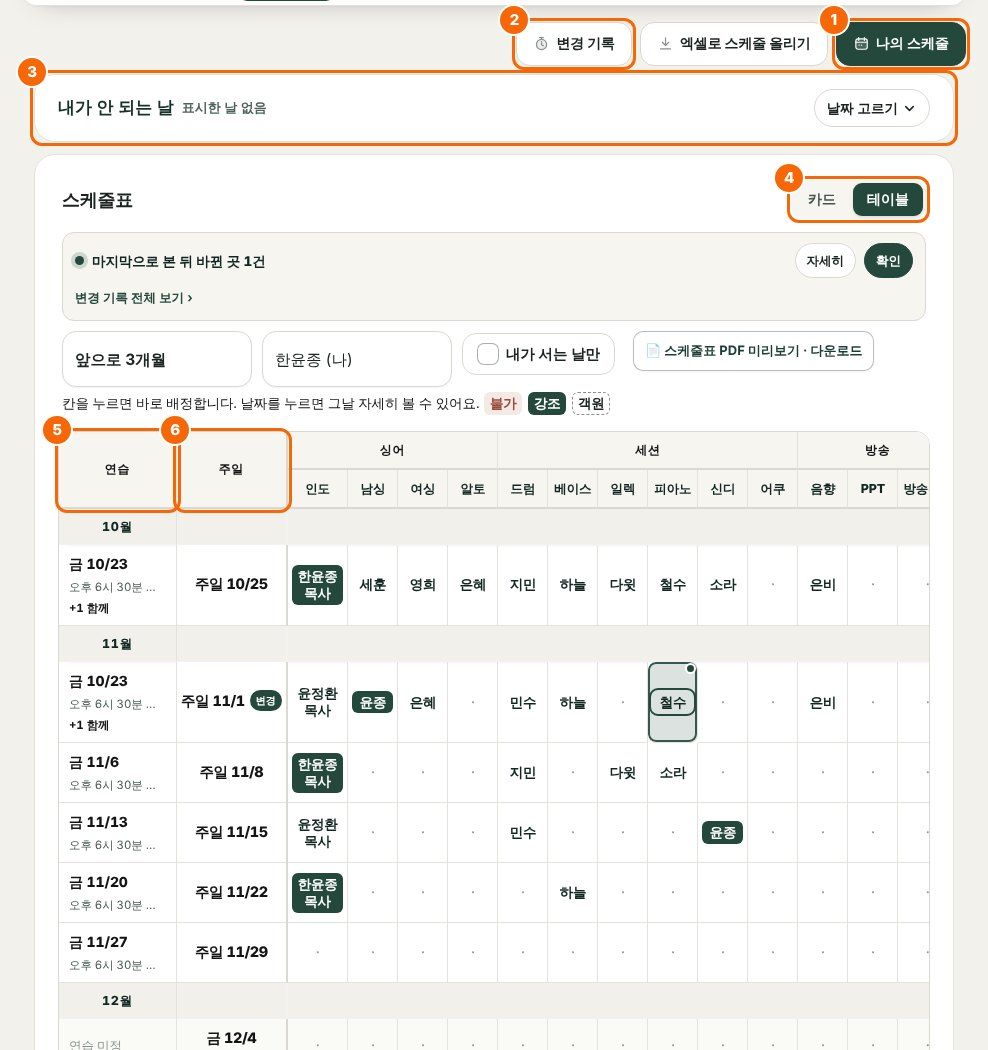
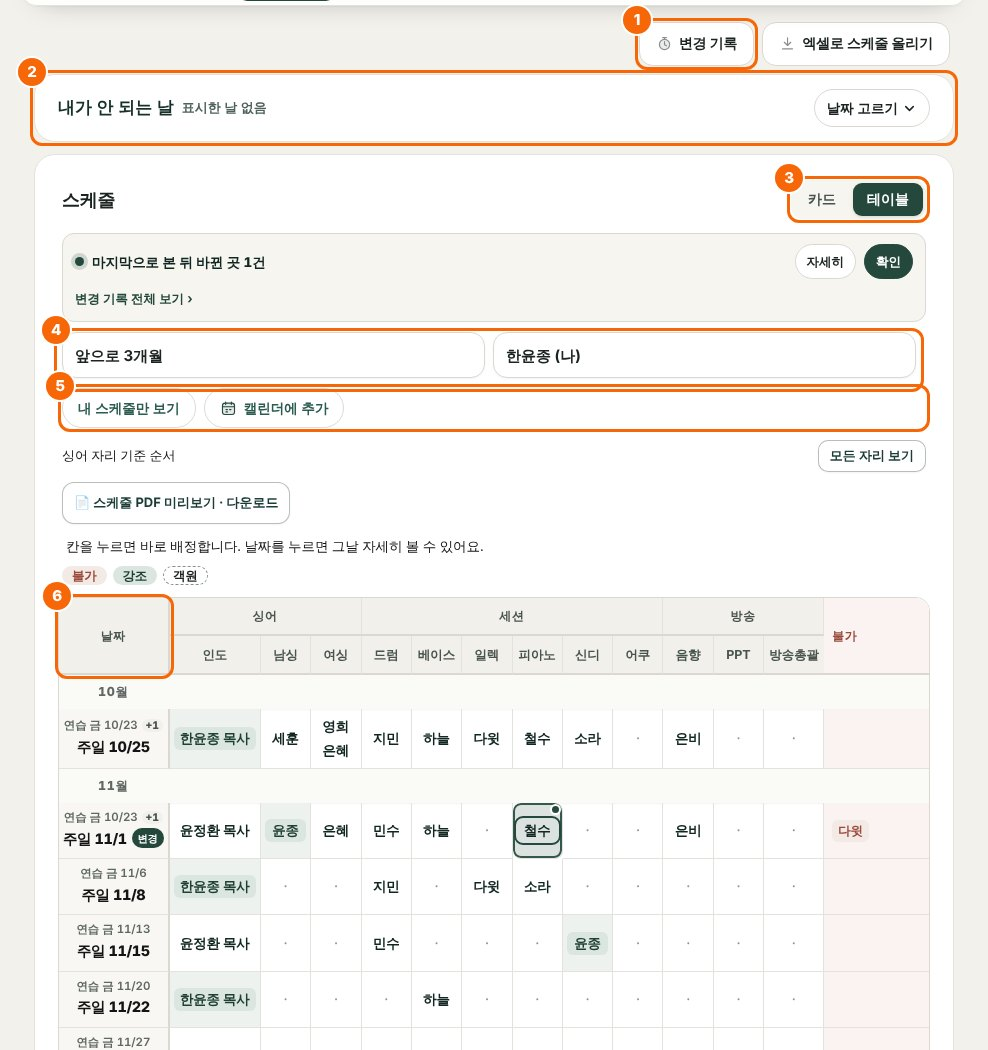
Schedule: match the church-app schedule layout
- Panel header "스케줄" with card/table toggle; range and highlight selects side by side
- "내 스케줄만 보기" / "캘린더에 추가" pill buttons; calendar opens inline with
  Apple / Google / .ics cards plus copy, Outlook and pick-dates (replaces the top
  "나의 스케줄" button)
- Role-order note with "모든 자리 보기" toggle, PDF button, legend chips
- Table: one date cell (practice small above Sunday), grey header, soft highlight
  for the chosen person, tinted 불가 column; separate practice and song columns removed
- Guide text and screenshots updated

Claude-Session: https://claude.ai/code/session_014VDXCwRXQi55bbQHujsnNa

diff --git a/public/hub/hubshim.js b/public/hub/hubshim.js
@@ -538,6 +538,163 @@ function offOne(key) {
   markOff([key], r, part);
 }
 
+/* ---------------------------------------------------------------- V14 스케줄 화면 — 청년부 앱(church-app v11) 스케줄과 같은 차림
+ * 머리(제목 · 카드/테이블) → 기간 · 사람 강조 (반반) → [내 스케줄만 보기] [캘린더에 추가] (누르면 아래로 펼침)
+ * → "○○ 자리 기준 순서 · 방송 칸은 숨김 [모든 자리 보기]" → PDF → 안내 · 범례 → 표/카드.
+ * 테이블 날짜 칸은 한 칸에 "연습일(작게) / 주일(굵게)" — 따로 있던 연습 칸 · 곡 칸은 뺌 (연습 시간 · 곡은 날짜를 누르면 나옴) */
+var ST_KIND_NAME = { sing: '싱어', keys: '건반', drum: '드럼', bass: '베이스', egt: '일렉', agt: '어쿠기타' };
+var stViewGroupsBase = stViewGroups;
+stViewGroups = function () { return ST.allCols ? stGroups() : stViewGroupsBase(); };
+function stPracMini(r) {
+  var p = r.practice || null, none = !p || p.none || p.unset || !p.date, w = stPracWith(r);
+  return '<span class="sd stpr' + (none ? ' none' : '') + '"' + (D.canEdit ? ' onclick="event.stopPropagation();stPractice(\'' + esc(jsq(r.key)) + '\')"' : '') +
+    ' title="' + esc((D.canEdit ? '연습일 바꾸기' : '연습일') + (w ? ' — 같은 날 연습: ' + w : '')) + '">' +
+    (none ? esc(stPracLabel(p)) : '연습 ' + WD[dt(p.date).getDay()] + ' ' + md(p.date)) + (w ? ' <i class="prw">+' + r.practiceWith.length + '</i>' : '') + '</span>';
+}
+var CAL = { open: false, data: null, err: '', busy: false };
+function calToggle() {
+  CAL.open = !CAL.open; render();
+  if (CAL.open && !CAL.data && !CAL.busy) calLoad();
+}
+function calLoad() {
+  CAL.busy = true; CAL.err = ''; render();
+  fetch((window.PH_BASE || '') + '/cal/mine?team=' + encodeURIComponent(HUB.team || ''), { credentials: 'same-origin' })
+    .then(function (r) { return r.json(); })
+    .then(function (j) { if (!j || !j.ok) throw new Error((j && j.error) || '캘린더 주소를 만들지 못했습니다.'); CAL.busy = false; CAL.data = j.result; render(); })
+    .catch(function (e) { CAL.busy = false; CAL.err = (e && e.message) || '캘린더 주소를 만들지 못했습니다.'; render(); });
+}
+function calCopy(btn) {
+  var u = CAL.data && CAL.data.feed && CAL.data.feed.https; if (!u) return;
+  var ok = function () { btn.textContent = '복사했습니다'; setTimeout(function () { btn.textContent = '주소 복사'; }, 1800); };
+  try { navigator.clipboard.writeText(u).then(ok, function () { prompt('주소를 복사하세요', u); }); } catch (e) { prompt('주소를 복사하세요', u); }
+}
+function calIco(k) {
+  var p = {
+    apple: '<rect x="3.5" y="4.5" width="17" height="16" rx="3.5" class="f"/><path d="M3.5 9.5h17M8 2.8v3.4M16 2.8v3.4"/><path d="M8.5 13.5h2M13.5 13.5h2M8.5 16.8h2"/>',
+    google: '<rect x="3.5" y="4.5" width="17" height="16" rx="3.5" class="f"/><path d="M3.5 9.5h17M8 2.8v3.4M16 2.8v3.4"/><path d="M15.2 15.1a3.3 3.3 0 1 1-1-2.4M15.2 13.4h-2.6"/>',
+    file: '<path class="f" d="M7 3.8h6.6L18 8.2v10a2 2 0 0 1-2 2H7a2 2 0 0 1-2-2V5.8a2 2 0 0 1 2-2z"/><path d="M13.4 3.8v4.6H18M12 11.5v5M9.6 14.4l2.4 2.4 2.4-2.4"/>'
+  }[k];
+  return '<svg class="calic" viewBox="0 0 24 24" fill="none" stroke="currentColor" stroke-width="1.6" stroke-linecap="round" stroke-linejoin="round" aria-hidden="true">' + p + '</svg>';
+}
+function calBox() {
+  if (!CAL.open) return '';
+  var L = CAL.data, h = '<div class="calbox">';
+  if (CAL.busy) h += '<p class="hint" style="margin:0;">주소를 만드는 중…</p>';
+  else if (CAL.err) h += '<p class="msg err" style="margin:0;">' + esc(CAL.err) + '</p>';
+  else if (L && L.feed) {
+    var items = (L.items || []).filter(function (it) { return !it.off; });
+    var ics = (window.PH_BASE || '') + '/cal/mine.ics?team=' + encodeURIComponent(HUB.team || '') + '&ids=' + encodeURIComponent(items.map(function (it) { return it.id; }).join(','));
+    h += '<p class="calh">' + esc(dispName(D.who)) + ' 님이 서는 연습 · 주일 예배 · 행사' + (items.length ? ' ' + items.length + '개' : '') + '가 들어갑니다. 한 번 추가해 두면 편성이 바뀔 때 캘린더도 저절로 바뀝니다.</p>' +
+      '<div class="calbtns">' +
+        '<a class="calb" href="' + esc(L.feed.webcal) + '">' + calIco('apple') + '<span>애플 캘린더<small>아이폰 · 아이패드 · 맥</small></span></a>' +
+        '<a class="calb" href="' + esc(L.feed.google) + '" target="_blank" rel="noopener">' + calIco('google') + '<span>구글 캘린더<small>웹에서 「추가」를 누르면 폰 앱에도</small></span></a>' +
+        (items.length ? '<a class="calb" href="' + esc(ics) + '">' + calIco('file') + '<span>.ics 내려받기<small>Outlook 등 · 지금 일정만</small></span></a>' : '') +
+      '</div>' +
+      '<div class="calfoot"><button type="button" class="btn mini" onclick="calCopy(this)">주소 복사</button>' +
+        (L.feed.outlook ? '<a class="btn mini" href="' + esc(L.feed.outlook) + '" target="_blank" rel="noopener">아웃룩에 구독</a>' : '') +
+        '<button type="button" class="btn mini" data-mysched data-team="' + esc(HUB.team || '') + '">날짜 골라 넣기</button></div>' +
+      '<p class="calnote">이 주소는 나만의 주소예요. 다른 사람에게 보내지 마세요.</p>';
+  }
+  return h + '</div>';
+}
+function schedTab() {
+  if (!ST.rows) {
+    return '<div class="panel"><p class="hint" style="margin-top:0;">' +
+      esc((ST_RANGES.filter(function (x) { return x[0] === ST.range; })[0] || ST_RANGES[0])[1]) + ' 스케줄을 불러오는 중…</p>' +
+      '<i class="skel line" style="width:55%;"></i><i class="skel line" style="width:85%;"></i>' +
+      '<i class="skel line" style="width:70%;"></i><i class="skel line" style="width:40%;"></i></div>';
+  }
+  var table = ST.view !== 'card';
+  var groups = table ? stViewGroups() : stGroups();
+  var cols = [];
+  groups.forEach(function (g) { cols = cols.concat(g[1]); });
+  var kn = known();
+  var picking = !!ST.pick;
+  var mineSet = {};
+  ST.mine.forEach(function (x) { mineSet[x.date] = x; });
+
+  var head1 = '<tr class="g"><th class="dc" rowspan="2">날짜</th>' +
+    groups.map(function (g) { return '<th colspan="' + g[1].length + '">' + g[0] + '</th>'; }).join('') +
+    '<th class="offc" rowspan="2">불가</th></tr>';
+  var head2 = '<tr>' + cols.map(function (p) { return '<th>' + esc(ST_SHORT[p.key] || p.label) + '</th>'; }).join('') + '</tr>';
+
+  var lastMonth = '', body = '', shown = stShown();
+  shown.forEach(function (r) {
+    var mo = r.date.slice(0, 7);
+    if (mo !== lastMonth) {
+      lastMonth = mo;
+      body += '<tr class="mrow"><td class="dc">' + Number(mo.split('-')[1]) + '월</td><td colspan="' + (cols.length + 1) + '"></td></tr>';
+    }
+    var off = offMap(r.off);
+    var sel = picking && ST.pick.indexOf(r.key) !== -1;
+    var mineOff = mineSet[r.key];
+    var dateCell = '<td class="dc' + (r.event ? ' ev' : '') + (sel ? ' sel' : '') + (mineOff ? ' mineoff' : '') +
+      '" onclick="' + (picking ? 'stPickDay' : 'stDay') + '(\'' + r.key + '\')">' +
+      (picking ? '<span class="ck">' + (sel ? '✓' : '') + '</span>' : '') +
+      stPracMini(r) + '<b>' + WD[dt(r.date).getDay()] + ' ' + md(r.date) + '</b>' +
+      ((r.event || mineOff) ? '<span class="dcn' + (r.event ? ' stev' : '') + '">' + (r.event ? esc(r.event.name) : '') + (mineOff ? (r.event ? ' · ' : '') + stMineTag(mineOff, r) : '') + '</span>' : '') + '</td>';
+
+    var cells = cols.map(function (p) {
+      var names = r.slots[p.key] || [];
+      var inner = names.length ? names.map(function (n) {
+        var cls = 'tn' + (off[n] ? ' off' : '') + (n === ST.hl ? ' hl' : '') + (kn[n] ? '' : ' guest');
+        return '<span class="' + cls + '" title="' + esc(n + (off[n] ? ' — ' + off[n] : '')) + '">' + esc(shortName(n, p.key)) + '</span>';
+      }).join('') : '<span class="tn none">·</span>';
+      var edit = D.canEdit && !picking;
+      return '<td class="c' + (edit ? ' ed' : '') + (names.indexOf(ST.hl) !== -1 && ST.hl ? ' hlc' : '') + '"' +
+        (edit ? ' onclick="stCell(\'' + r.key + '\',\'' + p.key + '\')"' : '') + '>' + inner + '</td>';
+    }).join('');
+
+    var offCell = '<td class="offc" onclick="stDay(\'' + r.key + '\')">' + (r.off.length ? r.off.map(function (x) { return stOffTn(x, r); }).join('') : '') + '</td>';
+    body += '<tr class="r' + (r.event ? ' evr' : '') + '">' + dateCell + cells + offCell + '</tr>';
+  });
+
+  var people = D.members.map(function (m) { return m.name; });
+  var hlSel = '<select class="hlsel" onchange="ST.hl=this.value;render();" aria-label="사람 강조">' +
+    '<option value="">사람 강조 없음</option>' +
+    people.map(function (n) { return '<option value="' + esc(n) + '"' + (n === ST.hl ? ' selected' : '') + '>' + esc(dispName(n)) + (n === D.who ? ' (나)' : '') + '</option>'; }).join('') +
+    '</select>';
+  var rangeSel = '<select class="rangesel" onchange="stRange(this.value)" aria-label="기간">' + ST_RANGES.map(function (x) {
+    return '<option value="' + x[0] + '"' + (ST.range === x[0] ? ' selected' : '') + '>' + x[1] + '</option>';
+  }).join('') + '</select>';
+
+  var bar = picking
+    ? '<div class="stbar"><div class="stbar-in">' +
+        '<div class="stbar-t">' + (ST.pick.length ? ST.pick.length + '개 날짜 선택됨' : '아래 표에서 안 되는 날짜를 누르세요') + '</div>' +
+        stPartSeg() + '<div class="addrow"><input type="text" id="offReason" placeholder="사유 — 예: 출장 · 시험 · 가족 행사" maxlength="100" ' +
+          'onkeydown="if(event.key===\'Enter\')saveOff()">' +
+          '<button class="btn" onclick="ST.pick=null;render();">취소</button>' +
+          '<button class="btn accent" onclick="saveOff()">저장</button></div>' +
+        '<p class="msg" id="offMsg" style="margin:6px 0 0;min-height:0;"></p></div></div>'
+    : '';
+
+  var viewSeg = '<div class="seg stseg">' + [['card', '카드'], ['table', '테이블']].map(function (v) {
+    return '<button type="button" class="' + (ST.view === v[0] ? 'on' : '') + '" onclick="ST.view=\'' + v[0] + '\';render();">' + v[1] + '</button>';
+  }).join('') + '</div>';
+
+  var kind = table ? stViewerKind() : '';
+  var roleBar = kind ? '<div class="strole"><span>' + (ST.allCols ? '모든 자리를 기본 순서로 보는 중' : esc(ST_KIND_NAME[kind] || '내') + ' 자리 기준 순서' + (D.committee ? '' : ' · 방송 칸은 숨김')) + '</span>' +
+    '<button type="button" class="btn mini" onclick="ST.allCols=!ST.allCols;render();">' + (ST.allCols ? '내 자리 기준으로' : '모든 자리 보기') + '</button></div>' : '';
+
+  return stOffCard() + '<div class="panel stpanel"><div class="sechead"><span class="chip">스케줄</span>' + viewSeg + '</div>' +
+      '<div class="sttools">' + rangeSel + hlSel + '</div>' +
+      (D.who ? '<div class="stmbs">' +
+        '<button type="button" class="stmb' + (ST.onlyMine ? ' on' : '') + '" aria-pressed="' + (ST.onlyMine ? 'true' : 'false') + '" onclick="stOnlyMine(!ST.onlyMine)">내 스케줄만 보기</button>' +
+        '<button type="button" class="stmb' + (CAL.open ? ' on' : '') + '" aria-expanded="' + (CAL.open ? 'true' : 'false') + '" onclick="calToggle()">' + calIco('apple') + '캘린더에 추가</button></div>' + calBox() : '') +
+      roleBar +
+      '<div class="docbar">' + docBtn('스케줄 PDF 미리보기 · 다운로드', 'hubDoc(\'hubScheduleDoc\',[TOKEN,ST.range],\'stDocMsg\')') + '<p class="msg docmsg" id="stDocMsg"></p></div>' +
+      '<p class="hint sthint">' + (picking ? '안 되는 날짜를 눌러 고른 뒤 위 칸에 사유를 적고 저장하세요.'
+        : (D.canEdit ? '칸을 누르면 바로 배정합니다. 날짜를 누르면 그날 자세히 볼 수 있어요.'
+                     : '날짜를 누르면 그날 편성과 불가 사유를 볼 수 있어요.')) + '</p>' +
+      '<p class="lg"><span class="tn off">불가</span><span class="tn hl">강조</span><span class="tn guest">객원</span></p>' +
+      bar +
+      (ST.onlyMine && !shown.length ? '<p class="empty" style="margin:14px 4px;">이 기간에 ' + esc(dispName(D.who)) + ' 님이 서는 날이 없어요. 기간을 바꾸거나 \'내 스케줄만 보기\'를 꺼 보세요.</p>' :
+      !table ? stCards(groups, kn, picking, mineSet)
+        : '<div class="stwrap"><table class="st"><thead>' + head1 + head2 + '</thead><tbody>' + body + '</tbody></table></div>') +
+      '<p class="msg" id="stMsg"></p>' +
+    '</div>';
+}
+
 /* ---------------------------------------------------------------- 시작 */
 document.addEventListener('DOMContentLoaded', function () {
   if (!TOKEN) { var b = el('body'); if (b) b.innerHTML = '<div class="panel"><p class="empty">다시 들어와 주세요.</p></div>'; return; }

diff --git a/public/hub/yn-adapt.css b/public/hub/yn-adapt.css
@@ -23,10 +23,10 @@ html[data-theme="light"] .yn.yn-main, html[data-theme="light"] .yn.yn-portal {
 /* 산호 칸(지금 고른 것 · 주 단추) — 어두운 화면 · 밝은 화면 모두 칸은 부드러운 산호, 그 위 글씨는 진한 숲색.
    (church-app 은 이 칸들 위에 흰 글씨를 썼는데 연한 산호 위에서는 대비가 모자랍니다 — 가독성 지킴이가 고치기 전부터 처음부터 맞게) */
 .yn :is(.wk.on, .sesbar button.on, .pick.on, .evseg button.on, .stseg button.on, .ssf .seg button.on, .rpc.on, .bk2.open .more, .dpk .d.on, .sidecal .dpk .d.on,
-  .tn.hl:not(.st .tn.hl), .ntp, .ssd .soon, .libnav button.on, .pgtabs button.on, .tabs button.on, .panel .picklist button.picked, .btn.accent, .btn.orange, .panel .submit,
+  .tn.hl:not(.st .tn.hl):not(.lg .tn.hl), .ntp, .ssd .soon, .libnav button.on, .pgtabs button.on, .tabs button.on, .panel .picklist button.picked, .btn.accent, .btn.orange, .panel .submit,
   #cropper .cbtns button.go, .stc.sel .stch .ck) { color: var(--on-tone) !important; }
 html[data-theme="light"] .yn :is(.wk.on, .sesbar button.on, .pick.on, .evseg button.on, .stseg button.on, .ssf .seg button.on, .rpc.on, .bk2.open .more, .dpk .d.on,
-  .sidecal .dpk .d.on, .tn.hl:not(.st .tn.hl), .ntp, .ssd .soon, .libnav button.on, .pgtabs button.on, .tabs button.on, .panel .picklist button.picked, .btn.accent, .btn.orange,
+  .sidecal .dpk .d.on, .tn.hl:not(.st .tn.hl):not(.lg .tn.hl), .ntp, .ssd .soon, .libnav button.on, .pgtabs button.on, .tabs button.on, .panel .picklist button.picked, .btn.accent, .btn.orange,
   .panel .submit, #cropper .cbtns button.go, .st td.dc.sel, .stc.sel .stch .ck, .submit, .pwsubmit, .dirbtn) { background: var(--lt-or) !important; border-color: transparent !important; }
 
 /* 통계 막대 · 숫자 막대 — 밝은 화면에서도 진한 산호 대신 부드러운 산호 + 살구 노랑 */
@@ -379,14 +379,6 @@ html[data-theme="light"] .yn .st td.dc .stpr, html[data-theme="light"] .yn .st t
 .yn .st td.xc.pc.none .pn { font-size: 12.5px; }
 .yn .st tr.mrow td.xc.pc { background: var(--st-mrow) !important; color: var(--ink-1) !important; font-size: 12.5px; font-weight: 800; letter-spacing: .06em; text-align: center; }
 html[data-theme="light"] .yn .st td.xc.pc { background: #FFFFFF; }
-@media (min-width: 900px) and (orientation: landscape) {
-  .yn .st .dch-n { display: none; } .yn .st .dch-w { display: inline; }
-  .yn .st th.xc.pc, .yn .st td.xc.pc { position: sticky; left: 0; z-index: 2; min-width: 118px; width: 118px; max-width: 118px; border-right: 1px solid var(--grid) !important; }
-  .yn .st thead th.xc.pc { z-index: 4; top: 0; }
-  .yn .st .dc { left: 118px !important; }
-  .yn .st td.xc.pc i { white-space: nowrap; overflow: hidden; text-overflow: ellipsis; font-size: 11.5px; }
-  .yn .st tr.mrow td.dc { color: transparent !important; }
-}
 
 /* 카드 보기 */
 html[data-theme="light"] .yn .stc { background: #FFFFFF !important; border: 1px solid #E3E2DC !important; box-shadow: none !important; border-radius: 20px !important; }
@@ -427,3 +419,66 @@ html[data-theme="light"] .yn .chg-k { background: #ECEBE5 !important; }
 html[data-theme="light"] .yn :is(.srow .fill, .mcol .mbar, .bar > span, .bar > i) { background: #24493C !important; }
 /* V13.1 — 다크 모드 포인트는 샴페인 골드 (예전처럼) */
 html:not([data-theme="light"]) .yn.yn-main, html:not([data-theme="light"]) .yn.yn-portal { --accent: #D6B97F; --tone: #D6B97F; --tone-rgb: 214, 185, 127; --on-tone: #1A160E; --chg: #D6B97F; --chg-rgb: 214, 185, 127; --chg-ink: #DDC28E; }
+
+/* ======================================================================
+   V14 — 스케줄 화면을 청년부 앱 스케줄 차림으로 (hubshim.js schedTab)
+   ====================================================================== */
+.yn .stpanel .sechead { margin-bottom: 14px; }
+.yn .stpanel .sttools { display: grid !important; grid-template-columns: 1fr 1fr; gap: 8px; padding: 0 4px 10px; }
+.yn .stpanel .sttools select { width: 100% !important; max-width: none !important; min-height: 46px; font-size: 15px; font-weight: 700; border-radius: 12px !important; margin: 0 !important; }
+.yn .stmbs { display: flex; flex-wrap: wrap; gap: 8px; margin: 0 4px 12px; }
+.yn .stmb {
+  display: inline-flex; align-items: center; gap: 7px; min-height: 40px; padding: 0 15px; border-radius: 999px;
+  border: 1px solid var(--hair-2, #DAD8D0); background: transparent; color: var(--ink-2, #4A544F);
+  font: inherit; font-size: 13.5px; font-weight: 700; cursor: pointer; -webkit-tap-highlight-color: transparent;
+}
+.yn .stmb .calic { width: 17px; height: 17px; }
+.yn .stmb.on { background: var(--tone) !important; border-color: var(--tone) !important; color: var(--on-tone, #fff) !important; }
+.yn .stmb.on .calic { color: inherit; }
+.yn .calbox { margin: 0 4px 14px; padding: 14px; border-radius: 16px; background: var(--st-head, #F6F5F0); }
+.yn .calbox .calh { margin: 0 0 12px; font-size: 13.5px; line-height: 1.65; color: #4A544F !important; }
+html:not([data-theme="light"]) .yn .calbox .calh { color: #C9CECB !important; }
+.yn .calbtns { display: grid; grid-template-columns: repeat(auto-fit, minmax(190px, 1fr)); gap: 8px; }
+.yn a.calb {
+  display: flex; align-items: center; gap: 12px; min-height: 58px; padding: 8px 14px; border-radius: 14px;
+  background: var(--lt-card, #fff); border: 1px solid var(--hair, #E3E2DC); color: var(--ink-1) !important;
+  text-decoration: none; font-size: 14.5px; font-weight: 700; line-height: 1.3;
+}
+.yn a.calb:hover { border-color: var(--tone); }
+.yn a.calb small { display: block; margin-top: 2px; font-size: 12px; font-weight: 500; color: var(--ink-3); }
+.yn .calic { width: 22px; height: 22px; flex: none; color: var(--tone); }
+.yn .calic .f { fill: currentColor; fill-opacity: .12; }
+.yn .calfoot { display: flex; gap: 8px; margin-top: 12px; flex-wrap: wrap; }
+.yn .calfoot .btn.mini { min-height: 34px; text-decoration: none; }
+.yn .calnote { margin: 10px 0 0; font-size: 12px; color: var(--ink-3); }
+.yn .strole { display: flex; align-items: center; justify-content: space-between; gap: 8px; flex-wrap: wrap; margin: 0 4px 10px; font-size: 13px; color: var(--ink-3); }
+.yn .stpanel .docbar { margin: 0 4px 10px !important; }
+.yn .stpanel .docbar .docbtn { min-height: 42px; border-radius: 12px !important; font-weight: 700; }
+.yn .stpanel .sthint { margin: 0 4px 6px !important; }
+.yn .stpanel .lg { display: flex; gap: 6px; margin: 0 4px 12px; white-space: normal; }
+.yn .stpanel .lg .tn { margin: 0; border-radius: 999px; padding: 2px 10px; font-size: 12.5px; font-weight: 700; }
+
+/* 테이블 — 회색 머리 · 날짜 칸 한 칸 (연습 작게 / 주일 굵게) · 강조는 옅은 바탕 · 불가 칸은 옅은 붉은 바탕 */
+.yn .st td.dc .stpr { display: block; font-size: 11.5px; font-weight: 600; line-height: 1.35; white-space: nowrap; cursor: pointer; }
+.yn .st td.dc .stpr.none { opacity: .75; }
+.yn .st td.dc b { display: block; white-space: nowrap; }
+.yn .st td.dc .dcn { display: block; max-width: 120px; white-space: normal; font-size: 11.5px; line-height: 1.35; font-weight: 700; }
+html[data-theme="light"] .yn .st thead th, html[data-theme="light"] .yn .st thead th.dc { background: #F1F0EB !important; color: #4A544F !important; font-weight: 700; }
+html[data-theme="light"] .yn .st tr.mrow td, html[data-theme="light"] .yn .st tr.mrow td.dc { background: #FAFAF7 !important; color: #5F6863 !important; }
+html[data-theme="light"] .yn .st td.dc { background: #F8F7F3 !important; }
+html[data-theme="light"] .yn .st td.offc, html[data-theme="light"] .yn .st th.offc { background: #FBF3F1 !important; }
+html[data-theme="light"] .yn .st thead th.offc { color: #9A4B3C !important; }
+html[data-theme="light"] .yn .st td.c.hlc { background: #EEF2EF !important; }
+html[data-theme="light"] .yn .st td.c .tn.hl, html[data-theme="light"] .yn .tn.hl, html[data-theme="light"] .yn .tp.hl { background: #DCE6E0 !important; color: #1F3F33 !important; font-weight: 800; }
+html:not([data-theme="light"]) .yn .st td.offc, html:not([data-theme="light"]) .yn .st th.offc { background: rgba(196, 110, 92, .10) !important; }
+html:not([data-theme="light"]) .yn .st td.c.hlc { background: rgba(214, 185, 127, .08) !important; }
+html:not([data-theme="light"]) .yn .st td.c .tn.hl, html:not([data-theme="light"]) .yn .tn.hl, html:not([data-theme="light"]) .yn .tp.hl { background: rgba(214, 185, 127, .2) !important; color: #E8D3A6 !important; }
+html:not([data-theme="light"]) .yn .stmbs .stmb { border-color: rgba(255,255,255,.16); color: #D8DCD9; }
+html:not([data-theme="light"]) .yn .calbox { background: rgba(255,255,255,.04); }
+html:not([data-theme="light"]) .yn a.calb { background: rgba(255,255,255,.04); border-color: rgba(255,255,255,.1); color: #ECEEEC !important; }
+@media (max-width: 560px) {
+  .yn .stpanel .sttools select { font-size: 14.5px; }
+  .yn .calbtns { grid-template-columns: 1fr; }
+}
+html[data-theme="light"] body .yn .stpanel .lg .tn.hl.hl, html[data-theme="light"] body .yn .stpanel .tp.hl.hl { background: #DCE6E0 !important; color: #1F3F33 !important; }
+html[data-theme="light"] .yn .stpanel .lg .tn.off { background: #F3E9E5 !important; color: #9A4B3C !important; }

diff --git a/routes/guide.js b/routes/guide.js
@@ -197,28 +197,26 @@ const SECTIONS = [
     ${stageBody()}`)],
   ['schedule', '스케줄표', sec('schedule', 7, '스케줄표', '날짜별로 누가 어떤 자리에 서는지, 언제 연습하는지 한눈에 봐요.', `
     ${fig('schedule', '스케줄표 화면 (테이블)', [
-      '<b>나의 스케줄</b> — 내가 서는 주일과 연습일을 골라 내 캘린더에 넣어요. (아래 그림)',
       '<b>변경 기록</b> — 누가 · 언제 · 어느 예배의 편성 · 불가 · 연습일을 바꿨는지 봐요. 옆의 <b>엑셀로 스케줄 올리기</b>는 관리자만 보여요.',
       '<b>내가 안 되는 날</b> — 날짜를 누르면 바로 불가로 저장돼요. 다시 누르면 지워져요. <em>둘 다 · 금요일 연습만 · 주일만</em>과 사유도 고를 수 있어요.',
       '<b>카드 / 테이블</b> — 보기 방식을 바꿔요. 카드는 날짜마다 한 장, 테이블은 여러 주를 한 표로.',
-      '<b>연습</b> — 테이블 맨 앞 칸이 그 예배의 연습일이에요(요일 · 날짜 · 메모, 같은 날 함께 연습하는 예배는 <em>+1 함께</em>). 눌러서 연습일을 바꿔요. 폰에서는 날짜 칸 위 작은 줄로 나와요.',
-      '<b>주일</b> — 그 다음 칸이 예배 날짜예요. 누르면 그날 편성 · 불가 · 연습을 자세히 보고, 내가 서는 날이면 캘린더에 넣을 수 있어요.'])}
+      '<b>기간 · 사람 강조</b> — 보여줄 기간을 고르고, 사람을 고르면 그 사람이 서는 칸이 옅게 강조돼요.',
+      '<b>내 스케줄만 보기 · 캘린더에 추가</b> — 내 날만 남기거나, 내가 서는 날을 내 캘린더에 넣어요. (아래 그림)',
+      '<b>날짜</b> — 작은 줄이 연습일, 굵은 줄이 주일이에요. 누르면 그날 편성 · 불가 · 연습 시간을 자세히 보고, 연습일 줄을 누르면 연습일을 바꿔요.'])}
     <ul class="gd-list">
-      <li><b>앞으로 3개월</b> — 보여줄 기간을 고르고, <b>내 이름(나)</b>을 고르면 그 사람이 서는 칸이 강조돼요. <b>내가 서는 날만</b>을 켜면 내 날만 남아요.</li>
-      <li><b>칸을 누르면</b> 바로 배정해요. 색 표시: <b>불가</b>(안 되는 사람) · <b>강조</b>(고른 사람) · <b>객원</b>(점선).</li>
+      <li><b>칸 순서</b> — 테이블은 내 포지션에 맞춰 칸 순서가 바뀌어요(싱어는 싱어 먼저, 세션은 내 악기 먼저). <b>모든 자리 보기</b>를 누르면 기본 순서로 돌아가요.</li>
+      <li><b>칸을 누르면</b> 바로 배정해요. 색 표시: <b>불가</b>(안 되는 사람) · <b>강조</b>(고른 사람) · <b>객원</b>(점선). 맨 끝 <b>불가</b> 칸에 그날 안 되는 사람이 모여요.</li>
       <li><b>바뀐 곳 강조</b> — 마지막으로 본 뒤 다른 사람이 바꾼 칸은 테두리와 <em>변경</em> 표시가 붙어요. <b>확인</b>을 누르면 강조가 꺼져요.</li>
-      <li><b>스케줄표 PDF</b> — 인쇄하거나 카톡으로 보낼 PDF를 만들어요.</li>
+      <li><b>스케줄 PDF</b> — 인쇄하거나 카톡으로 보낼 PDF를 만들어요.</li>
       <li><b>연습 시간 · 장소</b> — 연습일을 바꿀 때 <em>메모</em>에 "오후 7시 · 소예배실"처럼 적으면 연습 콘티 · 캘린더 · 안내 메일에 그 시간이 들어가요. 비워 두면 관리에서 정한 기본 시간이에요.</li>
     </ul>
-    <h3>나의 스케줄 — 내 캘린더에 넣기</h3>
-    ${fig('mysched', '나의 스케줄 창', [
-      '<b>넣을 날 체크</b> — 앞으로 3개월 동안 내가 서는 <b>주일</b>(리허설 모임 시간부터)과 <b>연습</b>이 날짜순으로 나와요. 넣을 날만 체크해요.',
-      '<b>전체 선택</b> — 한 번에 모두 체크 / 해제.',
-      '<b>구글 캘린더에 추가</b> — 구글은 한 번에 하나씩만 열려요. 누르면 고른 날 목록이 나오고, 하나씩 눌러 구글 캘린더에서 저장해요.',
-      '<b>아이폰 · 맥 캘린더용 파일 받기</b> — 고른 날 전부를 파일 하나(.ics)로 받아 한 번에 넣어요. (구글 캘린더 웹의 <em>가져오기</em>로도 넣을 수 있어요)'])}
-    ${tip('한 번 넣은 날은 이 기기에 <b>✓ 추가함</b>으로 표시되고, 다음에 열면 아직 안 넣은 날만 체크된 채로 시작해요. 스케줄이 바뀌면 그 날만 다시 넣어 주세요.')}
-    <h3>자동 연동 (구독) — 스케줄이 바뀌면 캘린더도 같이</h3>
-    <p>나의 스케줄 창 맨 아래 <b>자동 연동</b>에서 <b>아이폰 · 맥 / 구글 캘린더 / 아웃룩</b> 중 하나를 누르면, 내가 서는 주일 · 연습이 그 캘린더에 <b>구독 캘린더</b>로 들어와요. 한 번만 하면 앞으로 새로 배정되는 날도 저절로 들어오고, 편성 · 연습 시간이 바뀌거나 불가로 표시하면 캘린더에서도 바뀌거나 빠져요. 아이폰 · 맥 · 아웃룩은 몇 시간 안에, 구글은 반나절쯤 걸릴 수 있어요. 앞의 파일(.ics)로 넣는 방법은 그 순간의 사본이라 바뀌어도 따라가지 않아요.</p>
+    <h3>캘린더에 추가 — 스케줄이 바뀌면 캘린더도 같이</h3>
+    ${fig('mysched', '캘린더에 추가', [
+      '<b>애플 캘린더</b> — 아이폰 · 아이패드 · 맥 캘린더에 <b>구독 캘린더</b>로 들어가요.',
+      '<b>구글 캘린더</b> — 구글 캘린더 웹에서 <em>추가</em>를 누르면 폰의 구글 캘린더 앱에도 나와요.',
+      '<b>.ics 내려받기</b> — 지금 일정만 파일 하나로 받아요(아웃룩 등). 그 순간의 사본이라 바뀌어도 따라가지 않아요.',
+      '<b>주소 복사 · 아웃룩에 구독 · 날짜 골라 넣기</b> — 다른 캘린더 앱에 주소를 붙여 넣거나, 넣을 날만 골라 하나씩 넣어요.'])}
+    <p>애플 · 구글 · 아웃룩으로 한 번 구독해 두면, 앞으로 새로 배정되는 날도 저절로 들어오고 편성 · 연습 시간이 바뀌거나 불가로 표시하면 캘린더에서도 바뀌거나 빠져요. 아이폰 · 맥 · 아웃룩은 몇 시간 안에, 구글은 반나절쯤 걸릴 수 있어요.</p>
     ${warn('구독 주소는 나만의 주소예요. 다른 사람에게 보내지 마세요.')}
     <p>캘린더 일정 제목은 <b>3부찬양팀 연습 - 피아노</b> · <b>3부찬양팀 주일 - 피아노</b>처럼 나오고, 일정 안에는 안내 메일과 같은 순서로 시간 · 장소, 내 포지션, 콘티 곡, 함께 서는 분, (주일은) 연습 녹음, 유튜브로 전곡 듣기, 콘티 링크가 적혀 있어요.</p>
 `)],
@@ -285,7 +283,7 @@ const SECTIONS = [
     <details class="gd-q"><summary>화면이 이상해요 / 옛날 화면이에요</summary><p>배너 오른쪽 위 <b>새로고침</b> 버튼을 누르거나 페이지를 다시 열어 보세요.</p></details>
     <details class="gd-q"><summary>못 보는 메뉴가 있어요</summary><p>객원 멤버에게는 연습 콘티 · 주일 외 찬양 · 라이브러리가 보이지 않아요. 공지 및 모임 · 장비 · 수리는 지금 모두에게 잠시 숨겨 두었어요. 정식 팀원인데 다른 메뉴가 안 보이면 관리자에게 문의하세요.</p></details>
     <details class="gd-q"><summary>연습 시간이 바뀌었어요</summary><p>스케줄표에서 그 예배의 <b>연습</b> 칸을 눌러 날짜를 고르고, <b>메모</b>에 "오후 7시 · 소예배실"처럼 적어 저장하세요. 연습 콘티 · 캘린더 · 안내 메일에 바로 반영돼요. 이미 안내 메일이 나갔다면 관리자가 <b>관리 → 자동 안내 → 지금 보내기</b>([변경] 체크)로 다시 알려요.</p></details>
-    <details class="gd-q"><summary>내 캘린더에 서는 날을 넣고 싶어요</summary><p>스케줄표 위쪽 <b>나의 스케줄</b>에서 넣을 날을 체크하고 구글 캘린더 또는 아이폰 · 맥 캘린더 파일을 고르세요.</p></details>`)],
+    <details class="gd-q"><summary>내 캘린더에 서는 날을 넣고 싶어요</summary><p>스케줄표의 <b>캘린더에 추가</b>를 누르고 애플 캘린더 · 구글 캘린더 중 하나를 고르세요. 한 번만 하면 바뀐 스케줄도 저절로 따라가요.</p></details>`)],
 ];
 
 router.get('/guide', async (req, res) => {

diff --git a/scripts/guide-shots.js b/scripts/guide-shots.js
@@ -105,9 +105,9 @@ const SHOTS = {
     marks: ['.pc-strip .ph-wstrip-cell.on', '.pc-head', '.pc-target .pc-thead', '.pc-target .cn-toolcard', '.pc-target .pc-people'] },
   practice_rec: { url: '/practice-conti', clip: ['.pc-target .pc-recs'], pad: 12 },
   schedule: { url: '/schedule', wait: '.st', clip: ['.st-toolrow', '.stpanel'], maxH: 1050,
-    marks: ['[data-mysched]', '.st-toolrow a[href^="/schedule/history"]', '.offcard', '.stseg', 'th.xc.pc', 'th.dc'] },
-  mysched: { url: '/schedule', wait: '.st', w: 640, before: async (p) => { await p.click('[data-mysched]'); await p.waitForSelector('.msd-it'); await p.waitForTimeout(300); },
-    clip: ['.msd'], marks: ['.msd-it', '.msd-all', '[data-msd-google]', '[data-msd-ics]'] },
+    marks: ['.st-toolrow a[href^="/schedule/history"]', '.offcard', '.stseg', '.sttools', '.stmbs', 'th.dc'] },
+  mysched: { url: '/schedule', wait: '.st', w: 640, before: async (p) => { await p.click('.stmbs .stmb:nth-child(2)'); await p.waitForSelector('.calbox .calb'); await p.waitForTimeout(300); },
+    clip: ['.stmbs', '.calbox'], pad: 12, marks: ['.calb:nth-child(1)', '.calb:nth-child(2)', '.calb:nth-child(3)', '.calfoot'] },
   events: { url: '/events', clip: ['.ph-card'], maxH: 520 },
   library: { url: '/library', wait: '#body .panel', clip: ['.yn-main'], maxH: 800 },
   roster: { url: '/roster', clip: ['.ph-admintabs', '.ph-rrlist'], maxH: 900, marks: ['.ph-admintabs', 'details.ph-add > summary', '.ph-rrlist'] },

diff --git a/routes/schedule.js b/routes/schedule.js
@@ -86,7 +86,7 @@ router.get('/schedule', requireTeam, async (req, res) => {
   await hubPage.send(req, res, {
     nav: 'schedule', tab: 'sched', title: `${team} 스케줄표`,
     hero: { eyebrow: `${team} · 스케줄표`, title: '스케줄표', sub: '포지션 편성 · 연습일 · 내가 안 되는 날' },
-    extra: `<div class="ph-adminrow st-toolrow"><a class="ph-mini" href="/schedule/history?team=${encodeURIComponent(team)}">${ui.icon('timer')} 변경 기록</a>${req.ctx.isAdmin ? `<a class="ph-mini" href="/schedule/import?team=${encodeURIComponent(team)}">${ui.icon('download')} 엑셀로 스케줄 올리기</a>` : ''}<button type="button" class="ph-mini pri" data-mysched data-team="${pageShell.esc(team)}">${ui.icon('calendar')} 나의 스케줄</button></div>`,
+    extra: `<div class="ph-adminrow st-toolrow"><a class="ph-mini" href="/schedule/history?team=${encodeURIComponent(team)}">${ui.icon('timer')} 변경 기록</a>${req.ctx.isAdmin ? `<a class="ph-mini" href="/schedule/import?team=${encodeURIComponent(team)}">${ui.icon('download')} 엑셀로 스케줄 올리기</a>` : ''}</div>`,
   });
 });
 
